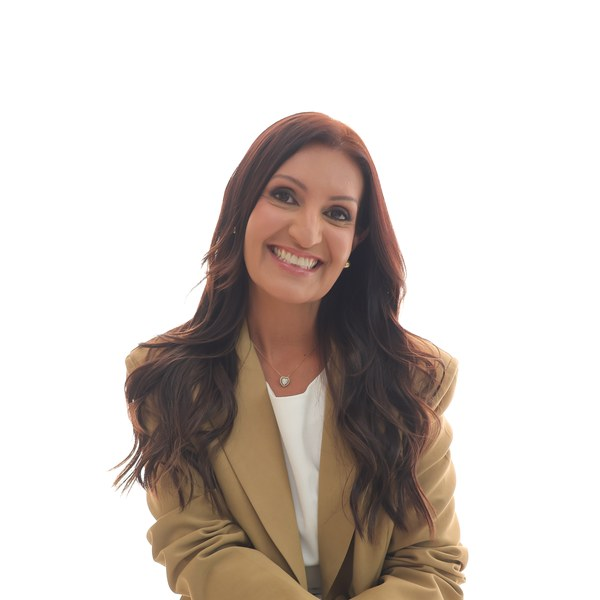
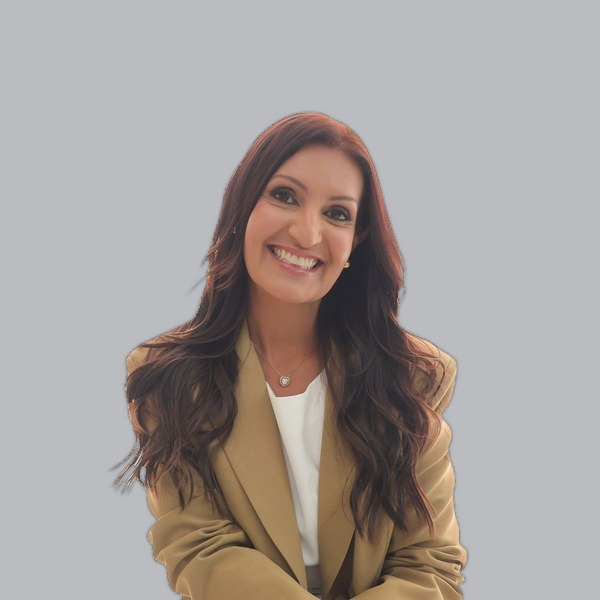
fix(team): restore Larissa/Luciana originals; Esther/Claudia framing tone
Restore pre-rembg studio portraits for Larissa and Luciana. Tighten
Esther face crop via CSS only. Neutralize Claudia blown-white background
onto a mid-grey plate without roster or layout changes.

diff --git a/app/globals.css b/app/globals.css
@@ -1684,11 +1684,11 @@ footer .heading-lg,
   transform: scale(1.02);
   transform-origin: center 35%;
 }
-/* Esther: source has excess headroom — zoom into the face without cutting crown. */
+/* Esther: face more central / prominent — tighter zoom, crown kept. */
 .team-photo--esther .team-card-photo {
-  object-position: 50% 72%;
-  transform: scale(1.42);
-  transform-origin: center 45%;
+  object-position: 50% 70%;
+  transform: scale(1.58);
+  transform-origin: center 42%;
 }
 /* Caroline: light-plate cutout; keep curls and glasses fully inside the frame. */
 .team-photo--caroline .team-card-photo {
@@ -1696,20 +1696,25 @@ footer .heading-lg,
   transform: scale(1.04);
   transform-origin: center 32%;
 }
-/* Larissa: source crown flat-cut — padded plate + mild pull-back. */
+/* Larissa: restored original studio portrait — slight pull-back so crown clears frame. */
 .team-photo--larissa .team-card-photo {
-  object-position: 50% 30%;
-  transform: scale(0.94);
-  transform-origin: center 24%;
+  object-position: 50% 36%;
+  transform: scale(0.96);
+  transform-origin: center 28%;
 }
 .team-photo--milla .team-card-photo { object-position: 50% 40%; }
 .team-photo--bianca .team-card-photo { object-position: 50% 40%; }
-.team-photo--claudia .team-card-photo { object-position: 49% 40%; }
-/* Luciana: source crown flat-cut — padded headroom + mild pull-back. */
-.team-photo--luciana .team-card-photo {
+/* Claudia: source kept; background neutralized in asset — keep face centred. */
+.team-photo--claudia .team-card-photo {
   object-position: 50% 32%;
-  transform: scale(0.9);
-  transform-origin: center 22%;
+  transform: scale(1.06);
+  transform-origin: center 30%;
+}
+/* Luciana: restored original tall studio portrait — frame upper body, keep full head. */
+.team-photo--luciana .team-card-photo {
+  object-position: 50% 22%;
+  transform: scale(1.02);
+  transform-origin: center 20%;
 }
 .team-photo--daniel .team-card-photo { object-position: 50% 38%; }
 .team-grid--commercial {
